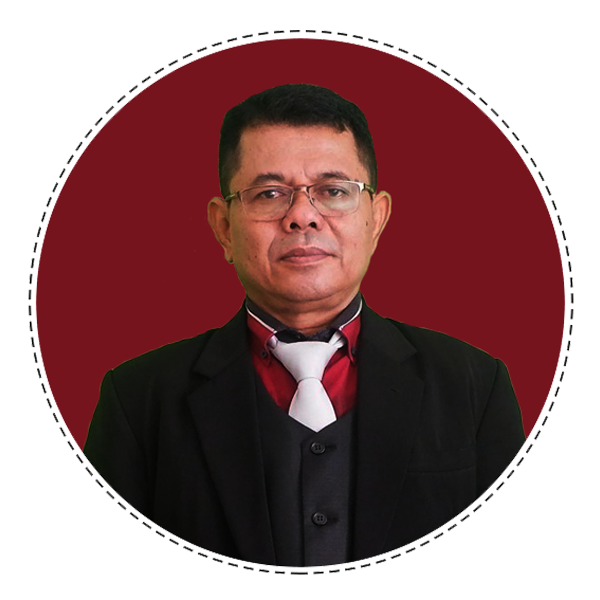
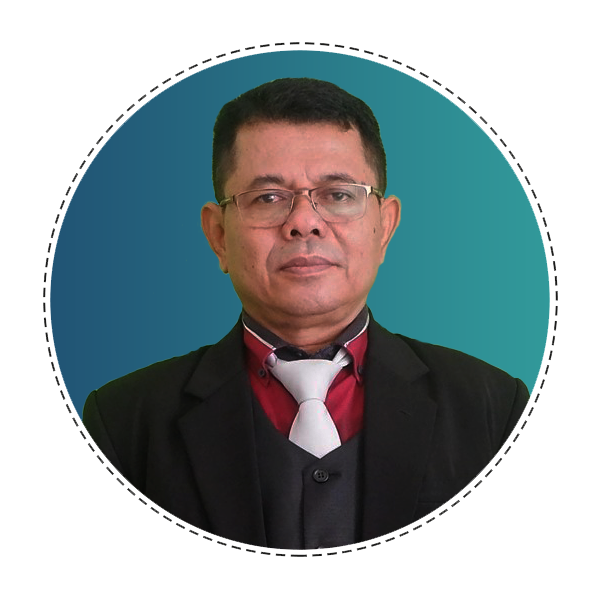
Update product and  author picture

diff --git a/index.html b/index.html
@@ -70,7 +70,8 @@
           <img src="images/book7.png" alt="" />
         </div>
       </div>
-      <h2>Anda akan memperoleh Bank File yang berisi:</h2>
+      <h2 class="discount">Harga Asli Rp 500.000, Diskon 50%</h2>
+      <h3>Anda akan mendapatkan File materi berupa kumpulan 150 Power Point dan E-Book:</h3>
       <div class="content">
         <div class="l">
           <div class="li">
@@ -107,6 +108,22 @@
             <img src="images/folder.png" class="img-folder" alt="" />
             <p>Kumpulan 50 Power Point Seminar GSM & Games</p>
           </div>
+        </div>
+      </div>
+      <h3>Bonus tambahan berupa file:</h3>
+      <div class="content">
+        <div class="l">
+          <div class="li">
+            <img src="images/folder.png" class="img-folder" alt="" />
+            <p>Kumpulan 100 Power Point cerita sekolah minggu</p>
+          </div>
+        </div>
+        <div class="r">
+          <div class="li">
+            <img src="images/folder.png" class="img-folder" alt="" />
+            <p>Kumpulan 100 Lagu anak dan Sekolah Minggu</p>
+          </div>
+
         </div>
       </div>
       <div class="button-container">
@@ -279,9 +296,9 @@
         <img src="images/igrea_round0.png" alt="" />
       </div>
       <div class="content">
-        <h1>Tentang Penulis</h1>
+        <h1>Igrea Siswanto</h1>
         <p>
-          <span>Igrea Siswanto</span>, Penulis Buku Games, Anak dan Sekolah Minggu, Trainer dan Praktisi Pelayanan Anak, juga menjadi fasilitator
+          Penulis Buku Games, Anak dan Sekolah Minggu, Trainer dan Praktisi Pelayanan Anak, juga menjadi fasilitator
           pelatihan Guru SM, PAK, dan Orangtua di berbagai denominasi dan di banyak kota seperti Medan, Jakarta, Bandung, Semarang, Purwokerto,
           Yogyakarta, Surabaya, Manado, Kalimantan, dan Papua, Aktif di JPA (Jaringan Pelayanan Anak), Mendirikan Kampung Sekolah Minggu Kotawisata
           Batu, Malang. Pernah terlibat dalam pembuatan modul lanjutan Superbook Indonesia.

diff --git a/style.css b/style.css
@@ -133,11 +133,16 @@ header label span {
   justify-content: space-between;
 }
 
+.product .discount {
+  color: var(--color-primary-dark);
+}
 .product h2 {
   font-size: 2rem;
-  padding: 0.8rem;
+  padding: 0.2rem;
 }
-
+.product h3 {
+  padding: 1rem;
+}
 .product .li {
   display: flex;
   padding: 0.5rem;
@@ -314,9 +319,12 @@ header label span {
   margin: 0.8rem 0;
 }
 
-.author .content p span {
+.author .content h1 {
   color: var(--color-primary);
-  font-weight: 600;
+}
+
+.author .content p span {
+  font-weight: 800;
 }
 
 /* footer */
@@ -512,17 +520,17 @@ header label span {
     margin-bottom: 4rem;
     text-align: center;
   }
-  
+
   .testimony .container {
     display: flex;
     flex-direction: column;
     gap: 0;
   }
-  
+
   .testimony .left {
     flex: 1;
   }
-  
+
   .testimony .right {
     flex: 1;
   }
@@ -533,30 +541,30 @@ header label span {
     margin-bottom: 2rem;
     border-radius: 1rem;
   }
-  
+
   .testimony .card img {
     height: 8rem;
     border-radius: 1rem 0rem 0rem 1rem;
   }
-  
+
   .testimony .card .content-container {
     padding: 1rem;
   }
-  
+
   .testimony .card .content-container h3 {
     font-size: 0.9rem;
   }
-  
+
   .testimony .card .content-container .title {
     font-size: 0.3rem;
     margin-bottom: 0.3rem;
   }
-  
+
   .testimony .card .content-container .words {
     font-size: 0.35rem;
     text-align: justify;
   }
-  
+
   .testimony .more {
     color: var(--color-primary);
     font-weight: 400;
